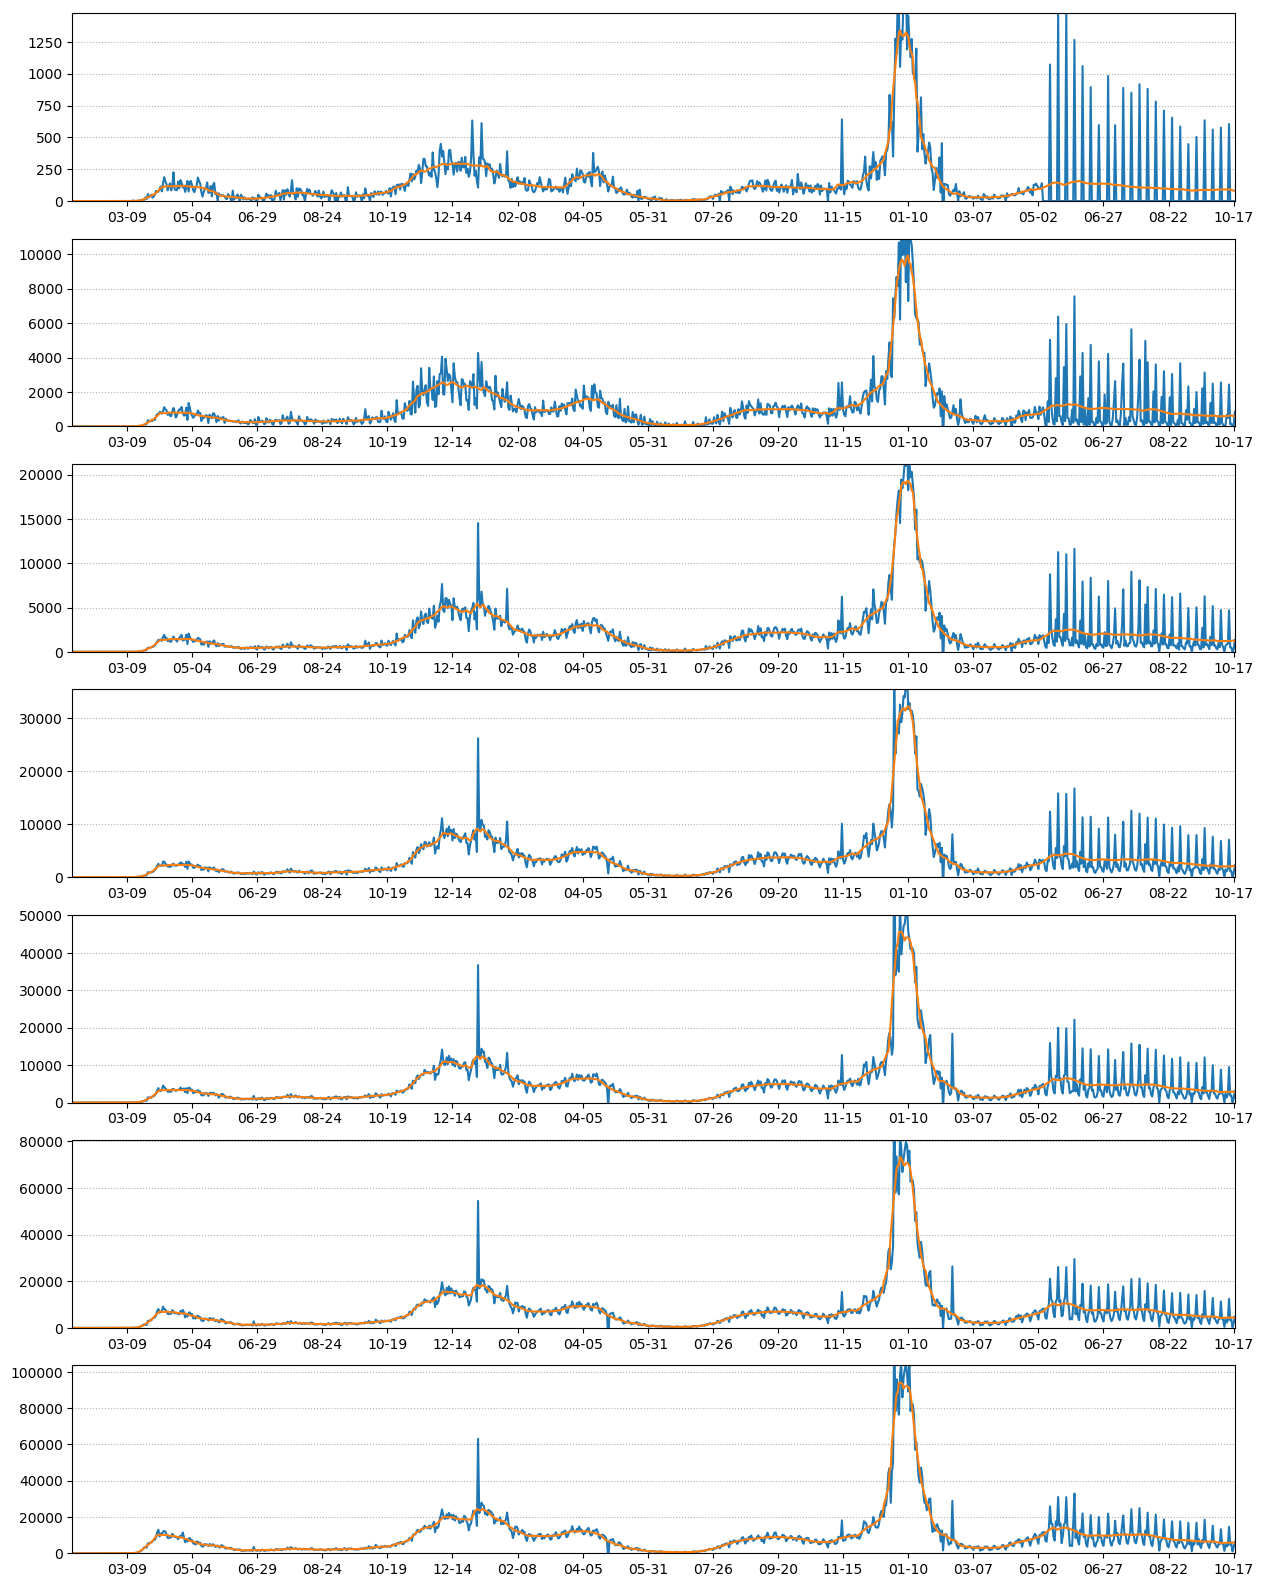
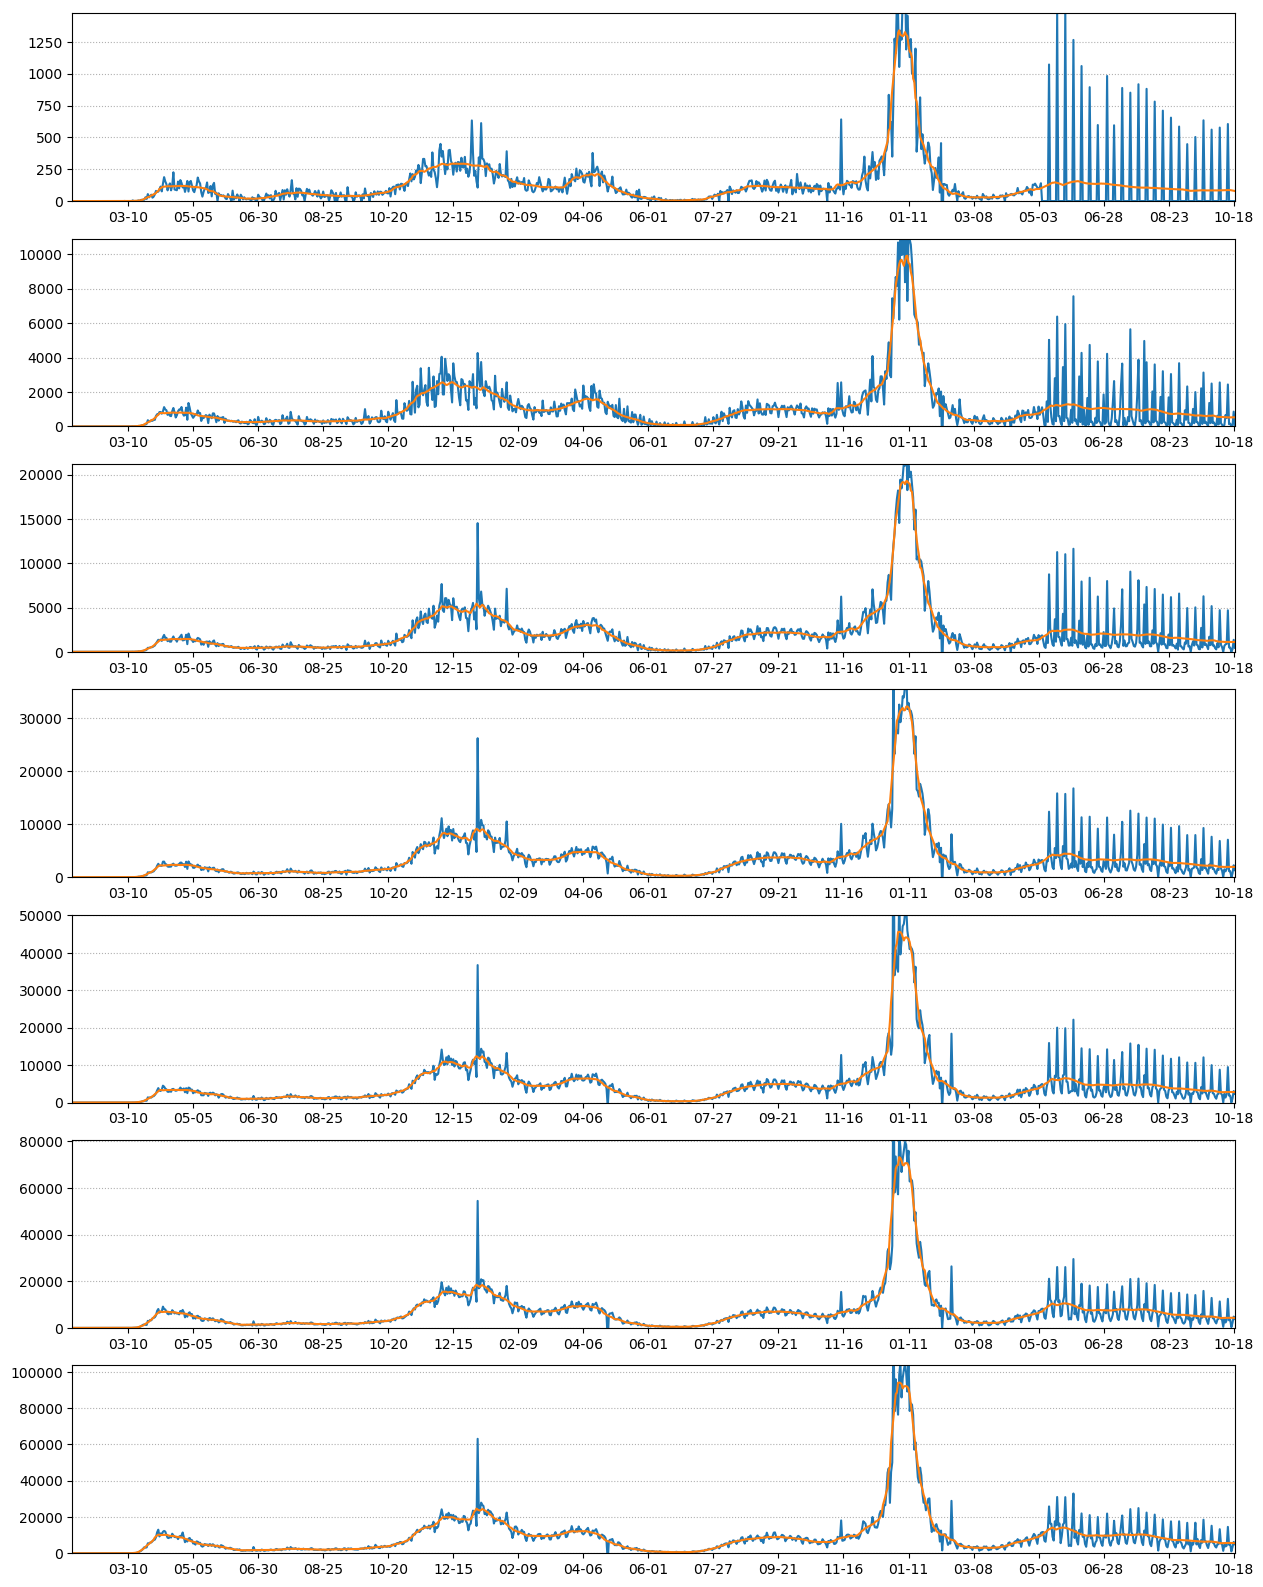
daily forecast

diff --git a/dailymessage.html b/dailymessage.html
@@ -1,46 +1,46 @@
 Delaware County COVID-19 Monitor<br>
-as of 2022-10-17<br>
+as of 2022-10-18<br>
 <table border="1" cellspacing="5" cellpadding="3">
 <tr>
 <td>0</td>
-<td>81</td>
+<td>79</td>
 <td>566747</td>
-<td>14.2</td>
+<td>13.9</td>
 </tr>
 <tr>
 <td>1</td>
-<td>577</td>
+<td>529</td>
 <td>4357104</td>
-<td>13.2</td>
+<td>12.1</td>
 </tr>
 <tr>
 <td>2</td>
-<td>1210</td>
+<td>1105</td>
 <td>8052045</td>
-<td>15.0</td>
+<td>13.7</td>
 </tr>
 <tr>
 <td>3</td>
-<td>2009</td>
+<td>1938</td>
 <td>13327166</td>
-<td>15.0</td>
+<td>14.5</td>
 </tr>
 <tr>
 <td>4</td>
-<td>2799</td>
+<td>2774</td>
 <td>18498878</td>
-<td>15.1</td>
+<td>14.9</td>
 </tr>
 <tr>
 <td>5</td>
-<td>4234</td>
+<td>4214</td>
 <td>27240755</td>
-<td>15.5</td>
+<td>15.4</td>
 </tr>
 <tr>
 <td>6</td>
-<td>5585</td>
+<td>5527</td>
 <td>34871340</td>
-<td>16.0</td>
+<td>15.8</td>
 </tr>
 </table>
